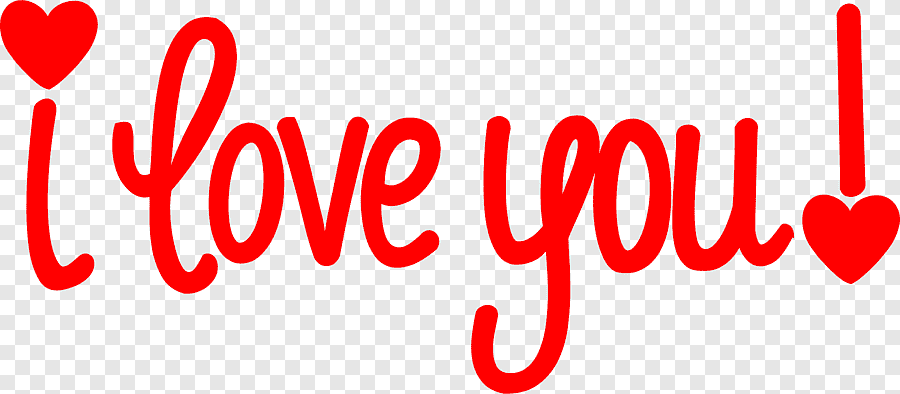
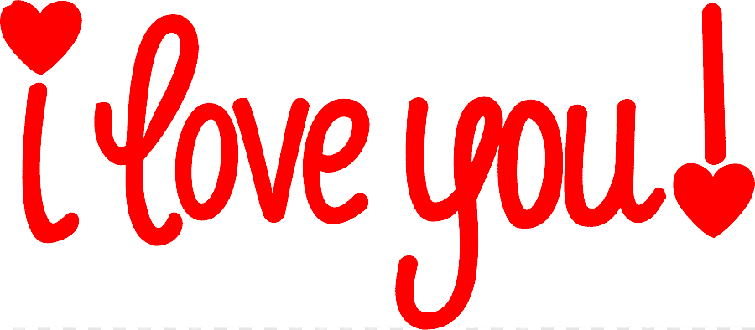
upadte

diff --git a/index.html b/index.html
@@ -6,13 +6,24 @@
     <meta name="viewport" content="width=device-width, initial-scale=1.0">
     <link href="https://cdn.jsdelivr.net/npm/bootstrap@5.0.1/dist/css/bootstrap.min.css" rel="stylesheet" integrity="sha384-+0n0xVW2eSR5OomGNYDnhzAbDsOXxcvSN1TPprVMTNDbiYZCxYbOOl7+AMvyTG2x" crossorigin="anonymous">
     <title>Document</title>
+    <style>
+        @import url('https://fonts.googleapis.com/css2?family=Poppins:wght@100;200;300;400;500;600;700;800;900&display=swap');
+        body{
+            background: linear-gradient(217deg, rgba(255,0,0,.8), rgba(255,0,0,0) 70.71%),
+            linear-gradient(127deg, rgba(0,255,0,.8), rgba(0,255,0,0) 70.71%),
+            linear-gradient(336deg, rgba(0,0,255,.8), rgba(0,0,255,0) 70.71%);
+        }
+        *{
+            font-family: 'Poppins', sans-serif !important;
+        }
+    </style>
 </head>
 <body>
     
     <header>
         <nav class="navbar navbar-expand-lg navbar-light bg-light">
             <div class="container-fluid">
-              <img class="w-25" src="./assets/love.png" alt="">
+              <img class="w-50" src="./assets/love.png" alt="">
               <button class="navbar-toggler" type="button" data-bs-toggle="collapse" data-bs-target="#navbarNav" aria-controls="navbarNav" aria-expanded="false" aria-label="Toggle navigation">
                 <span class="navbar-toggler-icon"></span>
               </button>
@@ -22,7 +33,7 @@
                     <a class="nav-link rounded-pill active fs-4 text-center p-2 mb-2 mt-3 bg-primary text-white" aria-current="page" href="#text1">Texto Aniversario 1.11</a>
                   </li>
                   <li class="nav-item">
-                    <a class="nav-link fs-4 rounded-pill text-center bg-success text-white" href="#text2">Texto Dia dos Namorados</a>
+                    <a class="nav-link fs-4 rounded-pill mb-3 text-center bg-success text-white" href="#text2">Texto Dia dos Namorados</a>
                   </li>      
                 </ul>
               </div>
@@ -30,7 +41,18 @@
           </nav>
     </header>
      <main>
+
+            <img src="./assets/text1Capa.png" alt="">
          <section id="text1">
+             <section class="text-center px-2 fs-6 " style="font-weight: 500;">
+                 <h3 class="text-center fs-3 py-4">Para a namorada mais incrivel do mundo</h3>
+                 <p>Amor da minha vida eu estou fazendo esse texto um pouco diferente usando a area que eu amo, que eu estudo e que eu trabalho para fazer essa homenagem para voce, espero que goste.</p>
+                 <p>Bom amor, como descrever voce ne uma garota tao incrivel e sensacional, que sempre estar do meu lado em tudo, nos piores e melhores momentos, sempre brigando comigo para querer ver meu bem, sempre sendo essa garota ousada que corre atras do que quer, nunca estar conformada com a situacao atual, sempre quer buscar mais, uma garota guerreira e incrivel, para me voce e a mulher mais incrivel desse mundo que sempre quero estar do seu lado, quero fazer voce a mulher mais feliz desse mundo inteiro ta bem.</p>
+                 <p>Muitas das vezes quando eu me sentia sozinho e inseguro, lembro que tenho voce do meu lado, que tenho alguem que realmente quer meu bem que quer seguir em frente comigo, que quer ter uma vida ao meu lado, entao amor muito obrigado por tudo, nao so por ser minha namorada e companheiro mas sim por provar pra me e para todos que voce realmente eh uma mulher incrivel, que eu tenho orgulho de dizer para todos que voce eh o amor da minha vida e com voce eu estou ate o fim e nao largo entendeu.</p>
+                 <p></p>
+                 <p>Eh isso amor para o texto nao ficar muito longo pq ainda temo mes que vem ne kkkk, eu queria dizer mais uma vez que te amo meu amor, que estarei do seu lado sempre, te apoiando e ajudando do jeito que eu puder ok, pode contar comigo pra tudo viu amor, perdoa meus momentos ruins, que fui duro com voce, grosso, muito rigido, mil desculpas ta bem, sei que tenho agido como um idiota nesses ultimos tempos, mas a minha essencia e meu amor por voce n diminuiram nada ta bem, ao contrario continuam crescendo cada vez mais, e espero que isso dure para as nossas vidas todas se Deus quiser e eu  acredito que ele quer.</p>
+                 <p>Eh isso amor <strong>Feliz 1.11 meses meu amor</strong> <img src="./assets/text1/heart.svg" style="width: 30px;vertical-align: middle;" alt=""></p>
+             </section>
             <div id="carouselExampleIndicators" class="carousel slide" data-bs-ride="carousel">
                 <div class="carousel-indicators">
                   <button type="button" data-bs-target="#carouselExampleIndicators" data-bs-slide-to="0" class="active" aria-current="true" aria-label="Slide 1"></button>
